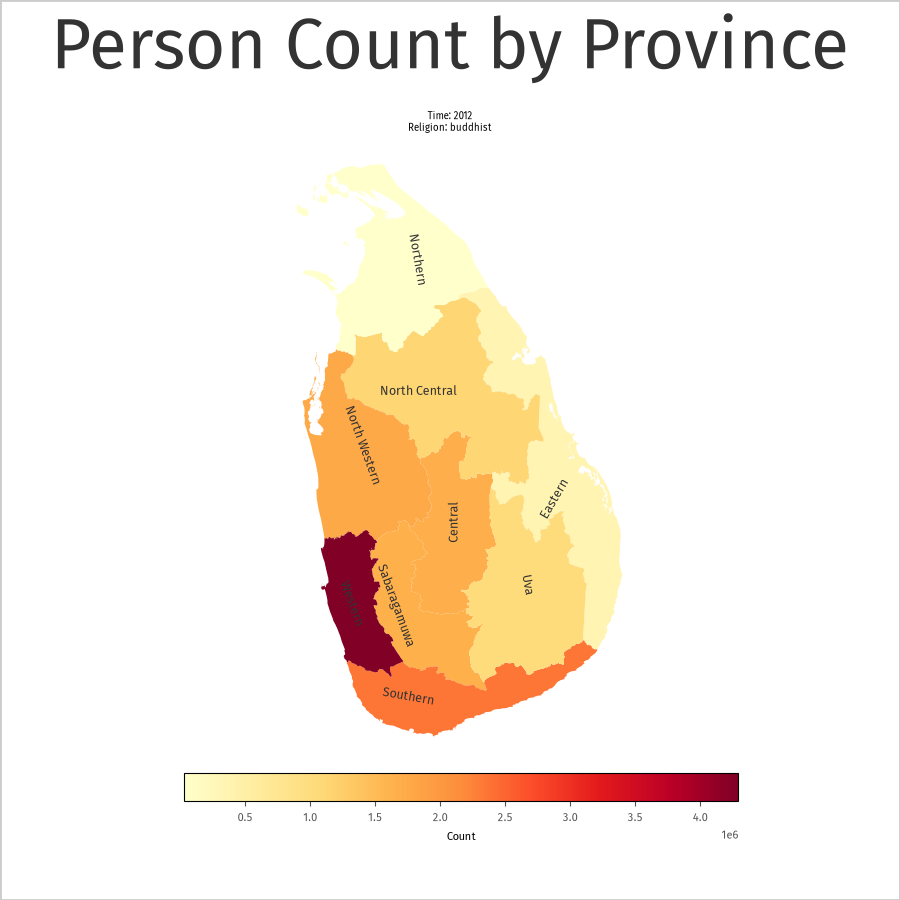
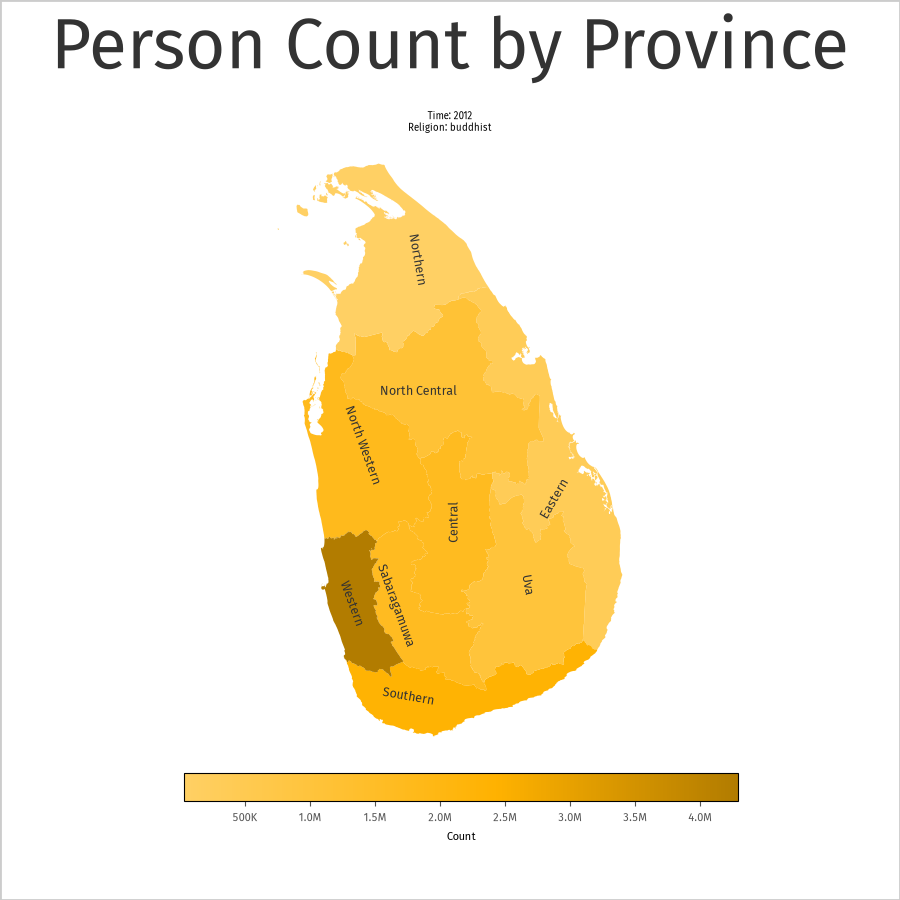
Enhance MapVisual and Visual classes: implement HSL lightness color mapping, update colorbar functionality, and add methods for fixed dimension color retrieval

Changed region(s): [[0.1867, 0.1867, 0.84, 0.9333], [0.3111, 0.2178, 0.3422, 0.2489]]

diff --git a/src/ds/visual/MapVisual.py b/src/ds/visual/MapVisual.py
@@ -1,3 +1,4 @@
+import colorsys
 import os
 import tempfile
 import urllib.request
@@ -113,7 +114,27 @@ class MapVisual(Visual):
             for datum in datumset
         }
 
-    def _plot_subfigure(self, fig, sub_ax, sub_datumset, vmin, vmax):
+    def _build_hsl_lightness_cmap(self, base_color):
+        base_rgb = mcolors.to_rgb(base_color)
+        h, l, s = colorsys.rgb_to_hls(*base_rgb)
+        light_l = min(0.95, max(0.55, l * 1.2))
+        dark_l = max(0.12, min(0.45, l * 0.6))
+        if dark_l >= light_l:
+            dark_l = max(0.0, light_l - 0.25)
+        colors = []
+        for i in range(256):
+            ratio = i / 255
+            new_l = light_l + (dark_l - light_l) * ratio
+            colors.append(colorsys.hls_to_rgb(h, new_l, s))
+        return mcolors.ListedColormap(colors)
+
+    def _get_value_cmap(self):
+        base_color = self._get_single_fixed_dim_color({self.region_dim_key})
+        if base_color is None:
+            return "YlOrRd"
+        return self._build_hsl_lightness_cmap(base_color)
+
+    def _plot_subfigure(self, fig, sub_ax, sub_datumset, vmin, vmax, cmap):
         region_values = self._get_region_values_for(sub_datumset)
         gdf = self._load_gdf().rename(columns={"id": "region_id"})
         gdf["value"] = gdf["region_id"].map(region_values)
@@ -121,7 +142,7 @@ class MapVisual(Visual):
             column="value",
             ax=sub_ax,
             legend=False,
-            cmap="YlOrRd",
+            cmap=cmap,
             vmin=vmin,
             vmax=vmax,
             missing_kwds={"color": "#f0f0f0"},
@@ -130,10 +151,10 @@ class MapVisual(Visual):
         sub_ax.set_axis_off()
         self._set_square_subfigure_title(sub_ax, sub_datumset)
 
-    def _add_colorbar(self, fig, vmin, vmax):
+    def _add_colorbar(self, fig, vmin, vmax, cmap):
         scalar_mappable = cm.ScalarMappable(
             norm=mcolors.Normalize(vmin=vmin, vmax=vmax),
-            cmap="YlOrRd",
+            cmap=cmap,
         )
         scalar_mappable.set_array([])
         colorbar = fig.colorbar(
@@ -144,7 +165,9 @@ class MapVisual(Visual):
             pad=0.04,
         )
         formatter = FuncFormatter(self._format_humanized_value)
+        colorbar.formatter = formatter
         colorbar.ax.xaxis.set_major_formatter(formatter)
+        colorbar.ax.xaxis.offsetText.set_visible(False)
         colorbar.update_ticks()
         colorbar.set_label(self.y_cell_key)
 
@@ -155,7 +178,15 @@ class MapVisual(Visual):
             self.display_datumsets,
         )
         vmin, vmax = self._get_value_range()
+        cmap = self._get_value_cmap()
         for sub_ax, sub_datumset in zip(axes, self.display_datumsets):
-            self._plot_subfigure(fig, sub_ax, sub_datumset, vmin, vmax)
-        self._add_colorbar(fig, vmin, vmax)
+            self._plot_subfigure(
+                fig,
+                sub_ax,
+                sub_datumset,
+                vmin,
+                vmax,
+                cmap,
+            )
+        self._add_colorbar(fig, vmin, vmax, cmap)
         self._hide_empty_axes(axes, n_datumsets)

diff --git a/tests/test_visual.py b/tests/test_visual.py
@@ -1,7 +1,11 @@
+import colorsys
 import unittest
+
+import matplotlib.colors as mcolors
 
 from ds import LankaData, VisualFactory
 from ds.thing.concept.person.Religion import Religion
+from ds.visual.MapVisual import MapVisual
 from ds.visual.PieChart import PieChart
 
 
@@ -59,3 +63,21 @@ class TestCase(unittest.TestCase):
                 self.assertEqual(color, expected_color_map[value])
                 n_matches += 1
         self.assertGreater(n_matches, 0)
+
+    def test_map_concept_color_map_hsl(self):
+        query_str = "Person/Time=2012*Province*Religion=buddhist/Count"
+        datumset = LankaData[query_str]
+        visual = MapVisual(datumset, "Province", "Count")
+        cmap = visual._get_value_cmap()
+        base_color = Religion.get_color_map()["buddhist"]
+        base_h, base_l, base_s = colorsys.rgb_to_hls(
+            *mcolors.to_rgb(base_color)
+        )
+        low_h, low_l, low_s = colorsys.rgb_to_hls(*cmap(0.0)[:3])
+        high_h, high_l, high_s = colorsys.rgb_to_hls(*cmap(1.0)[:3])
+        self.assertAlmostEqual(base_h, low_h, places=3)
+        self.assertAlmostEqual(base_h, high_h, places=3)
+        self.assertAlmostEqual(base_s, low_s, places=3)
+        self.assertAlmostEqual(base_s, high_s, places=3)
+        self.assertGreater(low_l, high_l)
+        self.assertGreater(base_l, high_l)

diff --git a/src/ds/visual/Visual.py b/src/ds/visual/Visual.py
@@ -154,6 +154,26 @@ class Visual(ABC):
             for dim_value in dim_values
         }
 
+    def _get_fixed_dim_color(self, dim_key):
+        dim_values = self._get_unique_dim_values(dim_key)
+        if len(dim_values) != 1:
+            return None
+        color_map = self._get_dim_color_map(dim_key)
+        if not color_map:
+            return None
+        dim_value = dim_values[0]
+        return color_map.get(dim_value)
+
+    def _get_single_fixed_dim_color(self, excluded_dim_keys=None):
+        excluded_dim_keys = excluded_dim_keys or set()
+        for dim_key in self._get_dim_labels():
+            if dim_key in excluded_dim_keys:
+                continue
+            color = self._get_fixed_dim_color(dim_key)
+            if color is not None:
+                return color
+        return None
+
     def _get_subfigure_title(self, datumset, excluded_dim_keys):
         constant_parts = []
         first_datum = datumset[0]
